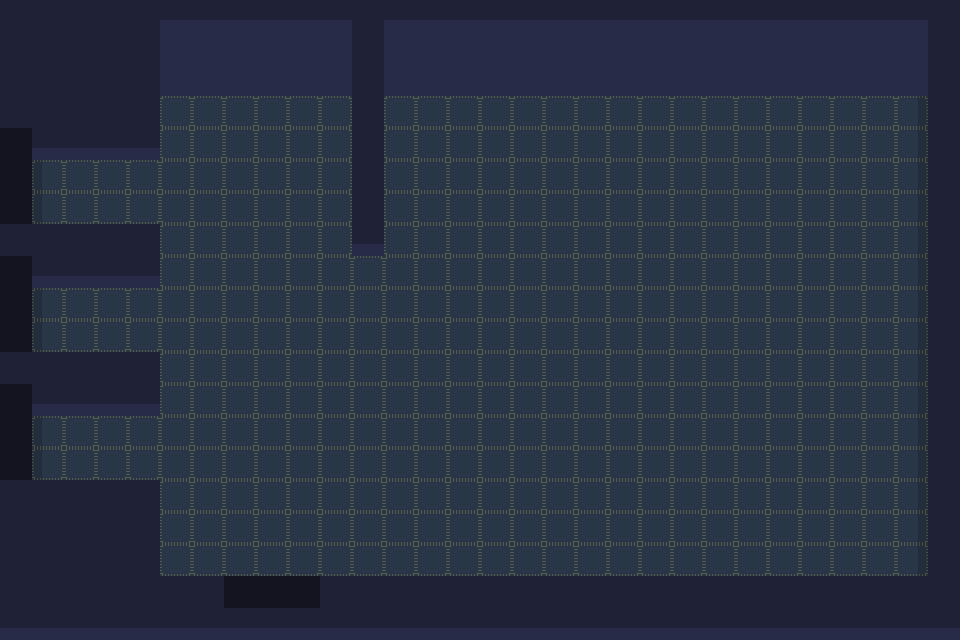
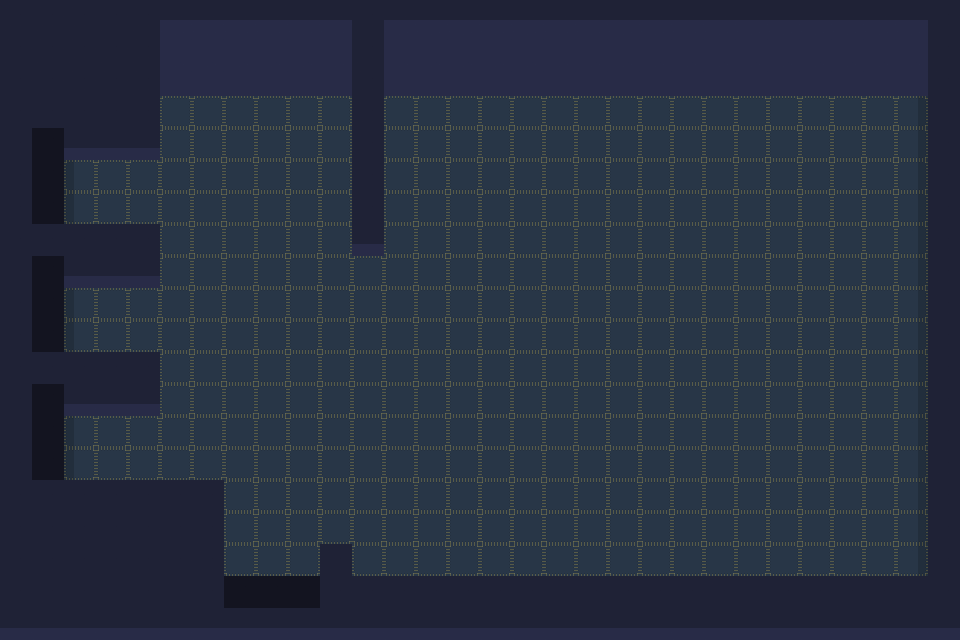
Fix room traversal so player ends up in right location

diff --git a/src/room.py b/src/room.py
@@ -1,4 +1,5 @@
 from inspect import CO_ASYNC_GENERATOR
+from re import X
 from secrets import choice
 from traceback import print_stack
 import pygame 
@@ -45,16 +46,18 @@ class Room:
 		# sprite group setup
 		self.visible_sprites = Camera()
 		self.obstacle_sprites = pygame.sprite.Group()
+		self.prev_room = Room_type.MOTHERBOARD.value
 		# sprite setup
-		self.create_map(Collider_type.MOTHERBOARD.value, 'both', 'motherboard')
+		self.create_map(Collider_type.MOTHERBOARD.value, 'both', 'motherboard', False, None)
 
-	def create_map(self, current_room, choice, player_location):
+	def create_map(self, current_room, choice, player_location, override_player_location, position):
 		"""Initializes the current map layout with the player position and colliders
 		"""
 		layouts = {
 			current_room : import_csv_layout('../assets/mapdata/' + current_room + '.csv'),
    			'player': import_csv_layout('../assets/mapdata/initial_position.csv'),
 		}
+		self.prev_room = current_room.replace('collider_', '')
 		for type, layout in layouts.items():
 			for row_index, row in enumerate(layout):
 				for col_index, col in enumerate(row):
@@ -69,54 +72,61 @@ class Room:
 					if 'player' in choice or 'both' in choice:
 						if type == 'player':
 							if col == IS_PLAYER:
-								self.player = Player(
-									(x,y),
-									player_location,
-									[self.visible_sprites],
-									self.obstacle_sprites,
-         						)
+								if not override_player_location:
+									self.player = Player(
+										(x,y),
+										player_location,
+										[self.visible_sprites],
+										self.obstacle_sprites,
+									)
+								elif override_player_location:
+									self.player = Player(
+										position,
+										player_location,
+										[self.visible_sprites],
+										self.obstacle_sprites,
+									)
 						        
 	def room_traversal(self):
 		"""Handles the room traversal
 		"""
-
-		prev_location = self.player.location
-		print("pre-set: ", self.player.get_location())
-
-		self.visible_sprites.set_room(self.player.get_location())
-		print("set: ", self.player.get_location())
-		current_room = 'collider_' + self.player.get_location()
-  
 		self.obstacle_sprites.empty()
 		self.visible_sprites.empty()
-		self.create_map(current_room, 'both', self.player.get_location())
-  
-		print("after creation: ", self.player.get_location())
-		self.player.location = prev_location
+		self.visible_sprites.set_room(self.player.get_location())
 		current_room = 'collider_' + self.player.get_location()
-		
-		location = self.player.get_location()
-  
-		# key_list = list(PATHS.keys())
-		# val_list = list(PATHS.values())
-
-		# index = val_list.index(DOORS[location])
 		 
-		# layouts = {
-		# 	current_room : import_csv_layout('../assets/mapdata/' + current_room + '.csv'),
-		# }
+		layouts = {
+			current_room : import_csv_layout('../assets/mapdata/' + current_room + '.csv'),
+		}
+		
+		x_pos = 0
+		y_pos = 0
+		middle = 2
+		door_opening = 0
+		for row_index, row in enumerate(layouts[current_room]):
+				for col_index, col in enumerate(row):
+					x = col_index * TILESIZE
+					y = row_index * TILESIZE
+					if col == DOORS[self.prev_room]:
+						door_opening += 1
+						if door_opening == middle:
+							x_pos = x	
+							y_pos = y	
 
-		# for row_index, row in enumerate(layouts[current_room]):
-		# 		for col_index, col in enumerate(row):
-		# 			x = col_index * TILESIZE
-		# 			y = row_index * TILESIZE
-		# 			if col == key_list[index]:
-		# 				print("found:",col , x, y)
-		# 				player_position = (x,y)
+		keys = pygame.key.get_pressed()
+  
+		if keys[pygame.K_w] or keys[pygame.K_UP]:
+			y_pos -= 75
+		elif keys[pygame.K_s] or keys[pygame.K_DOWN]:
+			y_pos += 75
+		elif keys[pygame.K_d] or keys[pygame.K_RIGHT]:
+			x_pos -= 75
+		elif keys[pygame.K_a] or keys[pygame.K_LEFT]:
+			x_pos += 75
 
-       
-		# if self.player.get_location() == Collider_type.CPU.value:
-		# 	self.player.set_pos(player_position)
+		player_position = (x_pos,y_pos)
+   
+		self.create_map(current_room, 'both', self.player.get_location(), True, player_position)
 			
 		self.player.colliding = False
 		

diff --git a/src/player.py b/src/player.py
@@ -77,7 +77,7 @@ class Player(Entity):
 		if keys[pygame.K_d] or keys[pygame.K_RIGHT]:
 			self.direction.x = 1
 			self.status = 'right'
-		elif keys[pygame.K_a] or keys[pygame.K_LEFT] :
+		elif keys[pygame.K_a] or keys[pygame.K_LEFT]:
 			self.direction.x = -1
 			self.status = 'left'
 		else:

diff --git a/src/config.py b/src/config.py
@@ -27,8 +27,6 @@ DOORS = {
     'internet' : '410',
 }
 PATHS = {
-	'401' : '402',
-	'402' : '401',
-	'401' : '407',
-	'407' : '401',
+	'401' : ['402','407','409','410'],
+	'402' : ['401','403','404','405','406','407'],
 }
